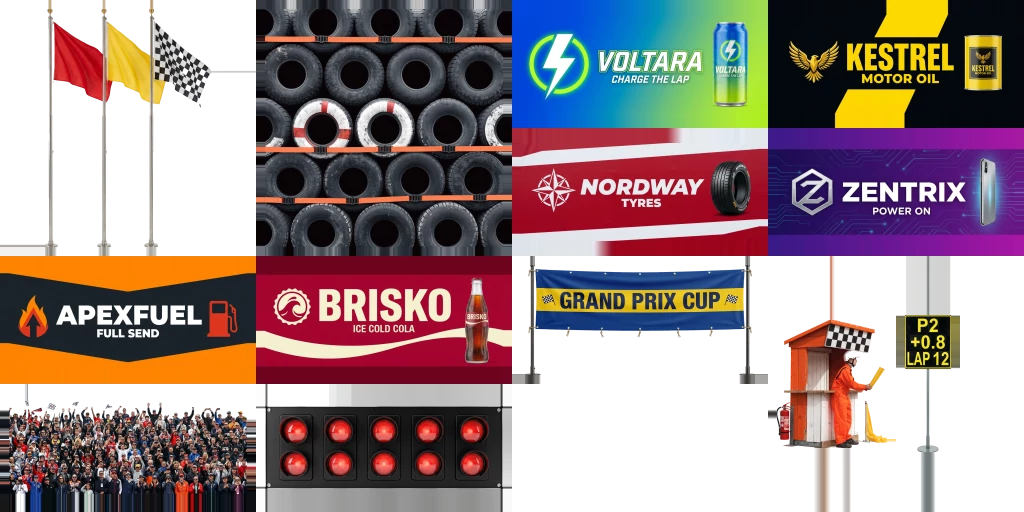
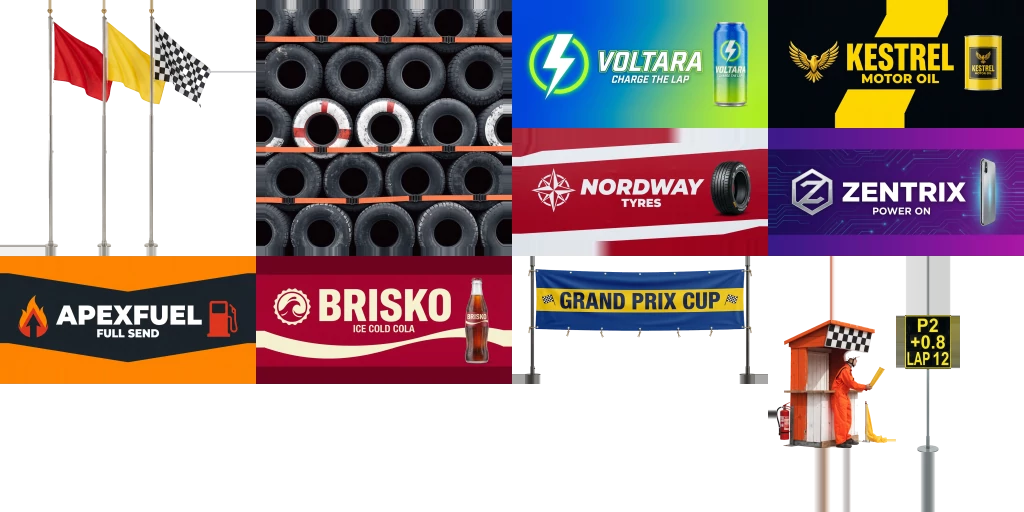
fix(scenery): owner feedback: no generated decal or tile on a road but the course's opted-in road paint (manhole covers on a city's roads by default), crowd card, lone start-light panel, butte, skid marks, cracks, potholes, oil, tree grates and grass tiles dropped, paving tiles city only, bodiless a

Changed region(s): [[0.0, 0.75, 0.5, 1.0]]

diff --git a/src/game/world/scenery.ts b/src/game/world/scenery.ts
@@ -3,11 +3,12 @@ import { PREFABS, type PrefabId } from "./catalog.ts";
 import { BIOME, BIOME_IDS, PREFAB, SCENERY_RULES, type BiomeId } from "./constants.ts";
 import type { Placed } from "./placements.ts";
 import { SCENERY_ASSETS } from "./scenery-assets/index.ts";
-import { LATTICE_RULES, ROAD_RULES, assetPrefab, assetScale, hasAssets, pickAsset, sceneryRule, standsIn, type AssetMode, type LatticeRule } from "./scenery-assets/pick.ts";
+import { LATTICE_RULES, assetPrefab, assetScale, hasAssets, pickAsset, sceneryRule, standsIn, type AssetMode, type LatticeRule } from "./scenery-assets/pick.ts";
 import type { AssetRule, SceneryAsset } from "./scenery-assets/types.ts";
 import { ASSET_LATTICE, FRONTAGE_SPACING, ISLAND_CHANCE_MAX, ISLANDS, LAMP_SPACING, PATCH_LATTICE, SLAB_WIDTH, VERGE, VERGE_CHANCE_MAX, VERGE_REACH, defaultBiome, noGenOf, pickKind, zoneAt, zonesOf, type Zone } from "./scenery-biome.ts";
+import { ROAD_DECAL_ASSET, ROAD_DECAL_NAMES, type RoadDecalName } from "./scenery-assets/types.ts";
 import { OCC_PAD, Occupancy, SEG_COVERED, blankNear, buildField, hashString, mix, nearest, unit, type Near, type RoadField } from "./scenery-field.ts";
-import { OPEN_REACH, type Track, type TrackPath } from "./track.ts";
+import type { Track, TrackPath } from "./track.ts";
 import { NO_FLOOR } from "./ground.ts";
 
 /**
@@ -119,11 +120,11 @@ const ROW_MAX = 4;
 const ROW_GAP = 0.8;
 const ROW_OFFSET = 1.2;
 const ROW_PROBE = 3;
-/** Road paint: metres between stations along a road, the chance a station holds one, the width (m) kept clear of the centre line's paint, and the share of a tile's picks that stay (a cobbled patch among the road's paint is rare). */
-const PAINT_SPACING = 26;
-const PAINT_CHANCE = 0.45;
-const LANE_LINE_CLEAR = 0.3;
-const PAINT_TILE_SHARE = 0.3;
+/** Road paint a course opts into (`scenery.roadDecals`): metres between stations along a road for each kind (a manhole cover every 60 to 80 m), and how far a spacing wanders either way (a share of it). */
+const ROAD_DECAL_SPACING: Record<RoadDecalName, number> = { manhole: 70, crosswalk: 150, arrow: 100, kerb: 40 };
+const ROAD_DECAL_SPAN = 1 / 7;
+/** The one road paint a course without `roadDecals` has, and the one biome it lies in: a manhole cover on a city's roads. */
+const DEFAULT_ROAD_DECAL: RoadDecalName = ROAD_DECAL_NAMES[0];
 /** Car park paint: metres between slots along the slab, the chance a slot holds one, and the lanes across it (the aisle and the two rows of bays). */
 const LOT_PITCH = 7;
 const LOT_CHANCE = 0.4;
@@ -163,6 +164,8 @@ type Ctx = {
   drawn: Placed[];
   drawnMeta: Meta[];
   lots: Lot[];
+  /** The road paint laid, each with the one biome it is limited to (null: wherever its row stands). */
+  roadDecals: { name: RoadDecalName; only: BiomeId | null }[];
 };
 
 function lampKey(i: number, j: number): number {
@@ -193,6 +196,7 @@ function newCtx(track: Track, base: readonly Placed[]): Ctx {
     drawn: [],
     drawnMeta: [],
     lots: [],
+    roadDecals: spec?.roadDecals?.map((name) => ({ name, only: null })) ?? [{ name: DEFAULT_ROAD_DECAL, only: BIOME.city }],
   };
   c.density[RULE_FRONTAGE] = spec?.density.frontage ?? 1;
   c.density[RULE_VERGE] = spec?.density.verge ?? 1;
@@ -695,7 +699,7 @@ function put(c: Ctx, rule: number, i: number, x: number, z: number, yaw: number,
   if (near.seg < 0 || !standsIn(a, biomeAt(c, x, z, near.seg))) return false;
   const [sx, sy, sz] = assetScale(a, scale);
   const flat = a.kind === "decal" || a.kind === "tile";
-  if (!flat && (a.body === "none" || a.body === "knock") && near.openGap < OPEN_REACH) return false;
+  if (!flat && (a.body === "none" || a.body === "knock") && near.openGap < SOLID_REACH) return false;
   return stand(c, rule, assetPrefab(a), x, z, yaw, sx, sy, sz, flat ? Math.min(hypot2(sx, sz) / 2, OCC_PAD) : undefined, i);
 }
 
@@ -839,10 +843,9 @@ function tracksideAssets(c: Ctx): void {
   }
 }
 
-/** Lay asset `asset` on the road at sample `k` of `p`: in a lane clear of the centre line (a tile along the edge), its longer extent running with the road. */
+/** Lay asset `asset` on the road at sample `k` of `p`: a decal narrower than half a lane in a lane's centre, a wider one and a kerb tile as the width allows, its longer extent running with the road. */
 function paintRoad(c: Ctx, scenery: number, p: TrackPath, k: number, seg: number, salt: number, asset: number): void {
   const a = SCENERY_ASSETS[asset]!;
-  if (a.kind === "tile" && a.rule !== "trackside" && stationUnit(c, salt, seg, 1, 3) >= PAINT_TILE_SHARE) return;
   const scale = sizeOf(stationUnit(c, salt, seg, 1, 4));
   const [sx, , sz] = assetScale(a, scale);
   const xAlong = sx >= sz;
@@ -850,28 +853,26 @@ function paintRoad(c: Ctx, scenery: number, p: TrackPath, k: number, seg: number
   const half = p.half[k]!;
   if (across > half) return;
   const side = stationUnit(c, salt, seg, 1, 5) < 0.5 ? 1 : -1;
-  const lo = LANE_LINE_CLEAR + across;
-  const room = half - across - lo;
-  // A wider paint than a half lane (a crosswalk) is centred over the road.
-  const lat = a.kind === "tile" ? side * (half - across) : room >= 0 ? side * (lo + room * stationUnit(c, salt, seg, 1, 6)) : 0;
+  const lat = a.kind === "tile" ? side * (half - across) : across * 2 <= half / 2 ? (side * half) / 2 : 0;
   const yaw = alongYaw(xAlong, p.tx[k]!, p.tz[k]!) + (stationUnit(c, salt, seg, 1, 7) < 0.5 ? 0 : Math.PI);
   paint(c, scenery, asset, p.x[k]! + p.tz[k]! * lat, p.z[k]! - p.tx[k]! * lat, yaw, scale);
 }
 
-/** Rules 1, 5 and 3 for assets: decals and kerb and cobble tiles on every road's surface (not under a bridge or roof), by each asset rule that has any. */
+/** Rules 1, 5 and 3 for assets: the road paint the course opts into (`roadDecals`) on every road's surface (not under a bridge or roof), each kind at its own spacing; nothing else generated lies on a road. */
 function roadAssets(c: Ctx): void {
-  for (const rule of ROAD_RULES) {
-    const scenery = sceneryRule(rule);
-    const density = c.density[scenery]!;
-    if (density <= 0) continue;
-    const salt = saltOf(c, "road", rule);
+  for (const { name, only } of c.roadDecals) {
+    const asset = SCENERY_ASSETS.findIndex((a) => a.id === ROAD_DECAL_ASSET[name]);
+    if (asset < 0) continue;
+    const a = SCENERY_ASSETS[asset]!;
+    const spacing = ROAD_DECAL_SPACING[name];
+    const salt = mix(saltOf(c, "road", a.rule), asset);
     for (let pi = 0; pi < c.field.paths.length; pi++) {
       const p = c.field.paths[pi]!;
-      march(c, pi, stationUnit(c, salt, c.field.base[pi]!, 1, 0) * PAINT_SPACING, (seg, k) => {
-        const asset = pickAsset("road", rule, biomeAt(c, p.x[k]!, p.z[k]!, seg), stationUnit(c, salt, seg, 1, 1));
-        if (asset < 0) return RETRY_STEP;
-        if (stationUnit(c, salt, seg, 1, 2) < PAINT_CHANCE * density) paintRoad(c, scenery, p, k, seg, salt, asset);
-        return PAINT_SPACING * (1 + (stationUnit(c, salt, seg, 1, 8) - 0.5) * 2 * SPACING_JITTER);
+      march(c, pi, stationUnit(c, salt, c.field.base[pi]!, 1, 0) * spacing, (seg, k) => {
+        const biome = biomeAt(c, p.x[k]!, p.z[k]!, seg);
+        if (!standsIn(a, biome) || (only !== null && biome !== only)) return RETRY_STEP;
+        paintRoad(c, sceneryRule(a.rule), p, k, seg, salt, asset);
+        return spacing * (1 + (stationUnit(c, salt, seg, 1, 8) - 0.5) * 2 * ROAD_DECAL_SPAN);
       });
     }
   }

diff --git a/src/game/world/scenery-assets.test.ts b/src/game/world/scenery-assets.test.ts
@@ -6,12 +6,12 @@ import { biomeLookup } from "./scenery.ts";
 import { COURSE_JSON, REACH, REACH_SLACK, dress, footprintDepth, nearOpening, type Dressed } from "./scenery.test-util.ts";
 import { SCENERY_ASSETS } from "./scenery-assets/index.ts";
 import { assetPrefab } from "./scenery-assets/pick.ts";
-import type { AssetKind, SceneryAsset } from "./scenery-assets/types.ts";
+import { ROAD_DECAL_ASSET, ROAD_DECAL_NAMES, type AssetKind, type SceneryAsset } from "./scenery-assets/types.ts";
 import { parseTrack } from "./track-schema.ts";
 import { assertSameDigest } from "../vehicle/test-support.ts";
 
-/** The least share of a city's road paint (decals whose rule paints roads) whose footprint overlaps a road. */
-const ON_ROAD_SHARE = 0.8;
+/** The least (m) a manhole cover's nearest neighbour is, at the median: one every 60 to 80 m along a road, closer only where two roads meet. */
+const MANHOLE_APART = 40;
 /** The most (m) a solid standee's or cross's footprint may differ from its core share of the drawn width. */
 const CORE_TOL = 1e-6;
 
@@ -31,7 +31,6 @@ function standing(d: Dressed): Standing[] {
 }
 
 const isPaint = (a: SceneryAsset): boolean => a.kind === "decal" || a.kind === "tile";
-const paintsRoads = (a: SceneryAsset): boolean => a.kind === "decal" && (a.rule === "paving" || a.rule === "trackside" || a.rule === "yard");
 
 /** What a placement proves a course can place: an asset rule and kind standing in a biome. */
 const pairKey = (a: SceneryAsset, biome: string): string => `${a.rule}:${a.kind}:${biome}`;
@@ -39,7 +38,9 @@ const pairKey = (a: SceneryAsset, biome: string): string => `${a.rule}:${a.kind}
 /** Ids of the assets none of whose rule, kind and biome pairs any course places, and how many pairs the courses place in all. */
 function unreached(): { ids: string[]; pairs: number } {
   const reached = new Set<string>();
-  for (const d of dressedCourses()) {
+  // The road paint is a course's opt-in: the city and the oval are dressed again with every kind listed.
+  const optedIn = [TRACK_ID.city, TRACK_ID.oval].map((id) => dress(COURSE_JSON.find((j) => parseTrack(j).id === id), { roadDecals: [...ROAD_DECAL_NAMES] }));
+  for (const d of [...dressedCourses(), ...optedIn]) {
     const biomeAt = biomeLookup(d.track);
     for (const p of standing(d)) {
       const a = SCENERY_ASSETS[p.asset];
@@ -105,15 +106,14 @@ function solids(): { total: number; counts: string[]; bad: string[] } {
   return { total, counts, bad };
 }
 
-/** The city's road paint (decals whose rule paints roads) and the part of it that overlaps a road. */
-function cityPaint(): { paint: number; onRoad: number } {
-  const d = dress(COURSE_JSON.find((j) => parseTrack(j).id === TRACK_ID.city));
-  const paint = standing(d).filter((p) => {
-    const a = SCENERY_ASSETS[p.asset];
-    return a !== undefined && paintsRoads(a);
-  });
-  return { paint: paint.length, onRoad: paint.filter((p) => footprintDepth(d.track, p) > 0).length };
+const cityJson = (): unknown => COURSE_JSON.find((j) => parseTrack(j).id === TRACK_ID.city);
+
+/** The generated decals and tiles standing in `d` whose footprint overlaps a road or its run-off (those on a car park slab are not on a road). */
+function onRoad(d: Dressed): Standing[] {
+  return standing(d).filter((p) => isPaint(SCENERY_ASSETS[p.asset]!) && footprintDepth(d.track, p) > 0);
 }
+
+const idOf = (p: Standing): string => SCENERY_ASSETS[p.asset]!.id;
 
 describe("given the generated scenery assets on every course", () => {
   // Weights pick among a pair's assets, so a rare asset may miss a small course set: the row holds each asset's rule, kind and a biome
@@ -160,11 +160,34 @@ describe("given the generated scenery assets on every course", () => {
     expect(seen, "assets placed").toBeGreaterThan(0);
   });
 
-  // mutation: sed -i 's/const half = p.half\[k\]!;/const half = p.half[k]! + 60;/' src/game/world/scenery.ts
-  it("when the city is dressed, then its road paint lies on its roads", () => {
-    const { paint, onRoad } = cityPaint();
-    expect(paint, "road paint standing in the city").toBeGreaterThan(0);
-    expect(onRoad / paint, `${onRoad} of ${paint} paint decals overlap a road`).toBeGreaterThanOrEqual(ON_ROAD_SHARE);
+  // mutation: sed -i 's/?? \[{ name: DEFAULT_ROAD_DECAL, only: BIOME.city }\]/?? ROAD_DECAL_NAMES.map((name) => ({ name, only: null }))/' src/game/world/scenery.ts
+  it("when every course is dressed with no roadDecals, then the only generated paint on a road is a manhole cover on the city's", () => {
+    let manholes = 0;
+    for (const d of dressedCourses()) {
+      const ids = onRoad(d).map(idOf);
+      expect(ids.filter((id) => id !== ROAD_DECAL_ASSET.manhole), `${d.track.id} paint on a road`).toEqual([]);
+      if (d.track.id !== TRACK_ID.city) expect(ids, `${d.track.id} paint on a road`).toEqual([]);
+      manholes += ids.length;
+    }
+    expect(manholes, "manhole covers on the city's roads").toBeGreaterThan(0);
+  });
+
+  // mutation: sed -i 's/const asset = SCENERY_ASSETS.findIndex((a) => a.id === ROAD_DECAL_ASSET\[name\]);/const asset = SCENERY_ASSETS.findIndex((a) => a.id === ROAD_DECAL_ASSET.manhole);/' src/game/world/scenery.ts
+  it("when a course lists its road paint, then only those kinds lie on its roads, and an empty list lays none", () => {
+    expect(onRoad(dress(cityJson(), { roadDecals: [] })).map(idOf), "an empty list").toEqual([]);
+    const crosswalks = onRoad(dress(cityJson(), { roadDecals: ["crosswalk"] })).map(idOf);
+    expect(crosswalks.length, "crosswalks on the city's roads").toBeGreaterThan(0);
+    expect(crosswalks.filter((id) => id !== ROAD_DECAL_ASSET.crosswalk), "other paint on a road").toEqual([]);
+  });
+
+  // mutation: sed -i 's/manhole: 70/manhole: 10/' src/game/world/scenery.ts
+  it("when the city's manhole covers are measured, then most have their nearest neighbour a cover's spacing away", () => {
+    const covers = onRoad(dress(cityJson())).filter((p) => idOf(p) === ROAD_DECAL_ASSET.manhole);
+    expect(covers.length, "covers").toBeGreaterThan(0);
+    // Two roads meeting put a pair closer, so the median of the nearest-neighbour distances is the measure.
+    const nearest = covers.map((a) => Math.min(...covers.filter((b) => b !== a).map((b) => Math.hypot(a.x - b.x, a.z - b.z)))).sort((x, y) => x - y);
+    const median = nearest[Math.floor(nearest.length / 2)]!;
+    expect(median, `the median nearest cover is ${median.toFixed(1)} m away`).toBeGreaterThanOrEqual(MANHOLE_APART);
   });
 });
 

diff --git a/src/game/world/scenery-assets/pick.ts b/src/game/world/scenery-assets/pick.ts
@@ -56,14 +56,13 @@ export function assetScale(a: SceneryAsset, k: number): readonly [number, number
 /**
  * Where an asset stands (`scenery.ts` has a pass for each): on a lattice beyond the wall line (`lattice`: uprights and ground paint;
  * `patch`: tiles), inside a loop (`islands`), at stations along the wall line (`frontage`; `trackside` in rows along the race loop),
- * on the road surface (`road`) or on a car park slab (`lot`).
+ * on the road surface (`road`: only the paint a course opts into, `scenery.roadDecals`) or on a car park slab (`lot`).
  */
 export type AssetMode = "lattice" | "patch" | "islands" | "frontage" | "trackside" | "road" | "lot";
 
-/** The asset rules that have a lattice beyond the wall line, and the rules whose flat assets lie on the road surface. */
+/** The asset rules that have a lattice beyond the wall line. */
 export const LATTICE_RULES = ["verge", "yard", "ground", "paving"] as const;
 export type LatticeRule = (typeof LATTICE_RULES)[number];
-export const ROAD_RULES = ["paving", "trackside", "yard"] as const;
 
 type SceneryRule = (typeof SCENERY_RULES)[number];
 
@@ -73,9 +72,6 @@ const RULE_OF: Record<AssetRule, SceneryRule> = { verge: "verge", yard: "verge",
 export function sceneryRule(rule: AssetRule): number {
   return SCENERY_RULES.indexOf(RULE_OF[rule]);
 }
-
-/** The id of the tile that also paves a city's roads (thinly), as well as standing beside them. */
-const ROAD_TILE = "ground-tile-cobblestone";
 
 function modeOf(a: SceneryAsset): AssetMode {
   switch (a.rule) {
@@ -93,9 +89,9 @@ function modeOf(a: SceneryAsset): AssetMode {
   }
 }
 
-/** Whether `a` of asset rule `rule` stands in `mode`: its own mode, and a cobbled road's tile on the road too. */
+/** Whether `a` of asset rule `rule` stands in `mode`. */
 function inMode(a: SceneryAsset, rule: AssetRule, mode: AssetMode): boolean {
-  return a.weight > 0 && a.rule === rule && (modeOf(a) === mode || (mode === "road" && a.id === ROAD_TILE));
+  return a.weight > 0 && a.rule === rule && modeOf(a) === mode;
 }
 
 /** Whether any asset of asset rule `rule` stands in `mode`, in any biome: a pass over nothing is skipped. */

diff --git a/src/game/world/track-schema.ts b/src/game/world/track-schema.ts
@@ -1,6 +1,7 @@
 import { z } from "zod";
 import { PREFAB_IDS, SURFACE_IDS } from "./catalog.ts";
 import { BIOME_IDS, SCENERY_DENSITY_RULES, SCENERY_RULES, SURFACE } from "./constants.ts";
+import { ROAD_DECAL_NAMES } from "./scenery-assets/types.ts";
 
 /**
  * The track JSON format: the single source of truth for a course.
@@ -130,6 +131,8 @@ const scenery = z.object({
   off: z.array(z.enum(SCENERY_RULES)).default([]),
   /** Per-rule density multiplier (1: the biome's own) for the rules that scale by one (`SCENERY_DENSITY_RULES`); a key for another is rejected. */
   density: z.partialRecord(z.enum(SCENERY_DENSITY_RULES), z.number().min(0).max(4)).default({}),
+  /** The road paint laid on this course's roads (manhole covers, crosswalks, lane arrows, kerb stripes): no other generated decal or tile lies on a road. Omitted: a manhole cover on a city's roads only. */
+  roadDecals: z.array(z.enum(ROAD_DECAL_NAMES)).optional(),
   /** Metres from any road's centreline within which nothing is generated, in every direction; omitted: only each footprint's own clearance from the wall line (0.4 m) applies. */
   clear: z.number().min(0).max(60).optional(),
   /** Where nothing is generated: boxes, circles, and stretches of the race loop. Hand `props` are untouched. */

diff --git a/src/game/world/scenery-assets/types.ts b/src/game/world/scenery-assets/types.ts
@@ -28,3 +28,8 @@ export type SceneryAsset = {
   /** A box's extent (m) along its front's normal; a box's width and height are `size`. */
   depth?: number;
 };
+
+/** The road paint a course may opt into (`scenery.roadDecals`) and the asset each is: a generated decal or tile never lies on a road otherwise. */
+export const ROAD_DECAL_NAMES = ["manhole", "crosswalk", "arrow", "kerb"] as const;
+export type RoadDecalName = (typeof ROAD_DECAL_NAMES)[number];
+export const ROAD_DECAL_ASSET: Record<RoadDecalName, string> = { manhole: "ground-manhole-cover", crosswalk: "ground-crosswalk-stripes", arrow: "ground-painted-arrow", kerb: "trackside-kerb-paint" };

diff --git a/src/game/present/showcase-art.ts b/src/game/present/showcase-art.ts
@@ -173,6 +173,8 @@ export class ShowcaseArt {
     this.erectPosts();
     this.floor.rotation.x = -Math.PI / 2;
     this.floor.receiveShadow = true;
+    // A throw's ray picks the floor before the first frame is drawn: its turned matrix must be current, or a wide floor stands on end across the set.
+    this.group.updateMatrixWorld(true);
     for (let slot = 0; slot < SLOTS; slot++) this.people.dress(slot, this.figureOf(slot).cop, this.figureOf(slot).look);
     this.stand();
   }

diff --git a/docs/RACE_DESIGN.md b/docs/RACE_DESIGN.md
@@ -582,12 +582,11 @@ cell))` so a cell's output depends only on that cell, and a hand-built track giv
 - **Assets** (`world/scenery-assets/`: `SCENERY_ASSETS`, the sprite rows `scripts/sprite-pack.mjs` writes; `pick.ts` gives each its prefab, scale and weighted table per mode and biome). `assets` runs last in
   `placeScenery`, so no earlier placement moves, and each placement carries its row's `asset` index. A row's `rule` and `kind` pick its pass: `verge`, `yard`, `ground` and `paving` uprights and ground paint
   on a lattice of their own beyond the wall line (`ASSET_LATTICE`: cell and a share of the biome's verge chance, thinning toward the road), tiles on a coarser one (`PATCH_LATTICE`), `islands` inside closed
-  roads, `frontage` at stations along every wall line (`FRONTAGE_SPACING`), `trackside` rows (boards, banners, tyre walls) on the race loop's outside, decals and kerb tiles of `paving`, `trackside` and `yard` on the road
-  surface off the centre line (not under a bridge or roof; the cobble tile thinly), and `carpark` decals on each car park slab. Cards and boxes face the road; a solid card or cross is a standee scaled to its `core` share of
-  the drawn width. An asset with no body (`none`, `knock`) stands only beyond `OPEN_REACH`; a `solid` one by the same rule as any prop (`SOLID_REACH`); a plant (`poof`) anywhere. Decals and tiles block nothing
-  and may lie on roads (`scenery.test.ts` exempts them from the footprint rows); `scenery-assets.test.ts` holds the rest.
+  roads, `frontage` at stations along every wall line (`FRONTAGE_SPACING`), `trackside` rows (boards, banners, tyre walls) on the race loop's outside, and `carpark` decals on each car park slab. Nothing generated lies ON a road except the road paint a course opts into (`roadDecals`, below): the scatter decals and tiles (puddles, leaf litter, mud, gravel, paving and cobble patches) stand beside roads only. Cards and boxes face the road; a solid card or cross is a standee scaled to its `core` share of
+  the drawn width. An asset with no body (`none`, `knock`) stands only beyond `SOLID_REACH` of any open edge (so only deep in a loop's infield); a `solid` one by the same rule as any prop (`SOLID_REACH`); a plant (`poof`) anywhere. Decals and tiles block nothing
+  (`scenery.test.ts` exempts the opted-in road paint from the footprint rows); `scenery-assets.test.ts` holds the rest.
 - **Overrides** (`scenery`, all optional): `biome` every stretch's biome (`none`: nothing outside `zones`, and the verge and island sweeps cover only the zones); `zones` `[{ x0, z0, x1, z1, biome }]` biome boxes; `off`
-  rule ids switched off (`paving`, `frontage`, `verge`, `islands`, `trackside`); `density` `{ rule: multiplier }` for `frontage`, `verge` and `islands` (the rules that scale by one; a key for another is rejected); `clear` metres from any road's **centreline** within
+  rule ids switched off (`paving`, `frontage`, `verge`, `islands`, `trackside`); `density` `{ rule: multiplier }` for `frontage`, `verge` and `islands` (the rules that scale by one; a key for another is rejected); `roadDecals` the road paint laid on its roads, from `manhole`, `crosswalk`, `arrow` and `kerb` (omitted: a manhole cover on a city's roads only, one every 60 to 80 m in a lane's centre; `[]`: none; each listed kind recurs at its own spacing, `ROAD_DECAL_SPACING`); `clear` metres from any road's **centreline** within
   which nothing is generated, in every direction (default: only what each footprint's own clearance keeps, `ROAD_STANDOFF` 0.4 m off the wall line); `noGen`
   zones where nothing is generated, `{ x0, z0, x1, z1 }` boxes, `{ x, z, r }` circles, and `{ fromNode, toNode, within = 40 }` stretches of the race loop (within 60 m). `off`,
   `clear` and `noGen` only remove from the finished list, so raising `clear` or adding a zone always yields a subset of the default (`scenery.test.ts`). Hand `props` are
